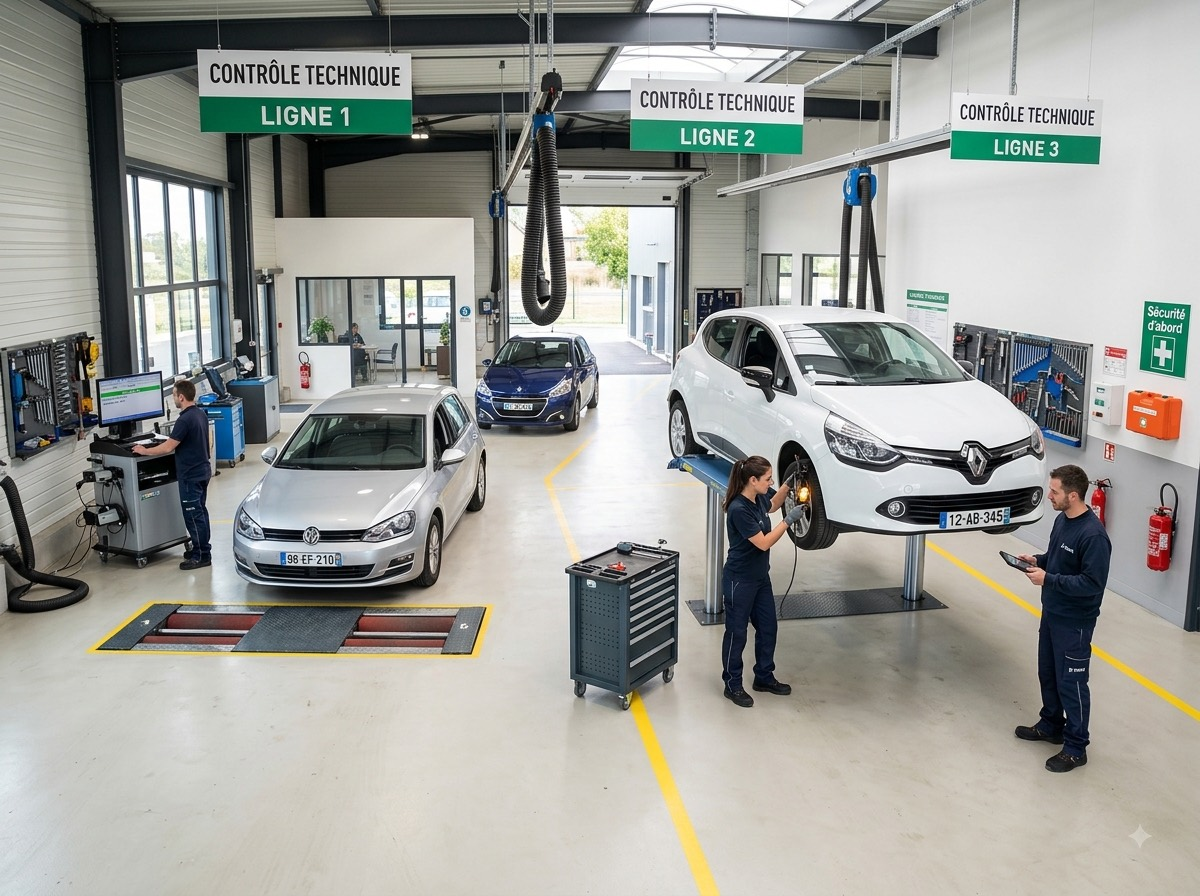
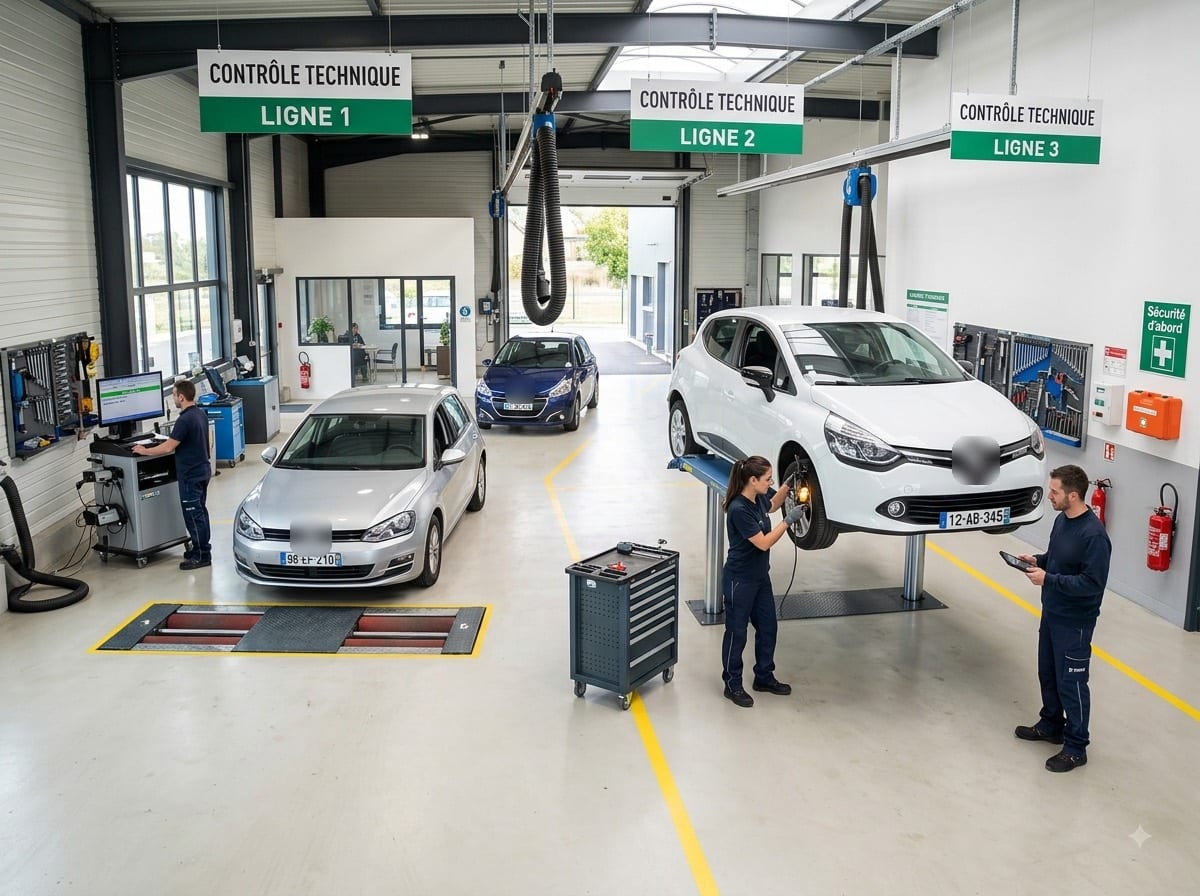
fix(landing): chiffres invérifiables retirés, marques réelles masquées
- Le bandeau « +500 commerces · +50 000 tickets · -40 % d'attente »
  (chiffres non démontrables : publicité trompeuse) est remplacé par des faits
  vérifiables sur le produit : 3 langues, aucune application à installer,
  suivi en temps réel — dans les trois langues.
- Photos : l'enseigne L'Oréal du salon devient un panneau uni et le logo sur
  la feuille est flouté ; logos Volkswagen, Renault, Peugeot et marque du
  mécanicien floutés (garage) ; plaque La Marzocco floutée (client-libre).
  Flou elliptique à bords doux pour rester naturel ; images réencodées
  (−40 % de poids).

Changed region(s): [[0.7708, 0.4688, 0.8325, 0.5625], [0.2158, 0.5625, 0.2775, 0.625], [0.4008, 0.4375, 0.4625, 0.4688]]

diff --git a/src/app/[locale]/page.tsx b/src/app/[locale]/page.tsx
@@ -15,7 +15,7 @@ import {
   UtensilsCrossed,
   Zap,
   Clock,
-  Star,
+  Languages,
 } from 'lucide-react';
 import { Link } from '@/i18n/routing';
 import { Button } from '@/components/ui/button';
@@ -182,14 +182,16 @@ export default async function HomePage({ params }: { params: Promise<{ locale: s
 
       <section className="border-y bg-muted/30 py-10">
         <div className="container grid grid-cols-3 gap-4 text-center">
+          {/* Des faits vérifiables sur le produit, pas des chiffres de clientèle invérifiables. */}
           {[
-            { i: Star, l: t('home.statsClients') },
-            { i: QrCode, l: t('home.statsTickets') },
-            { i: Clock, l: t('home.statsTime') },
+            { i: Languages, l: t('home.statsLanguages'), d: t('home.statsLanguagesDesc') },
+            { i: Smartphone, l: t('home.statsNoApp'), d: t('home.statsNoAppDesc') },
+            { i: Clock, l: t('home.statsRealtime'), d: t('home.statsRealtimeDesc') },
           ].map((s) => (
             <div key={s.l} className="flex flex-col items-center gap-1">
               <s.i className="mb-1 h-5 w-5 text-primary" />
-              <span className="text-2xl font-extrabold md:text-3xl">{s.l}</span>
+              <span className="text-xl font-extrabold md:text-3xl">{s.l}</span>
+              <span className="text-xs text-muted-foreground md:text-sm">{s.d}</span>
             </div>
           ))}
         </div>
